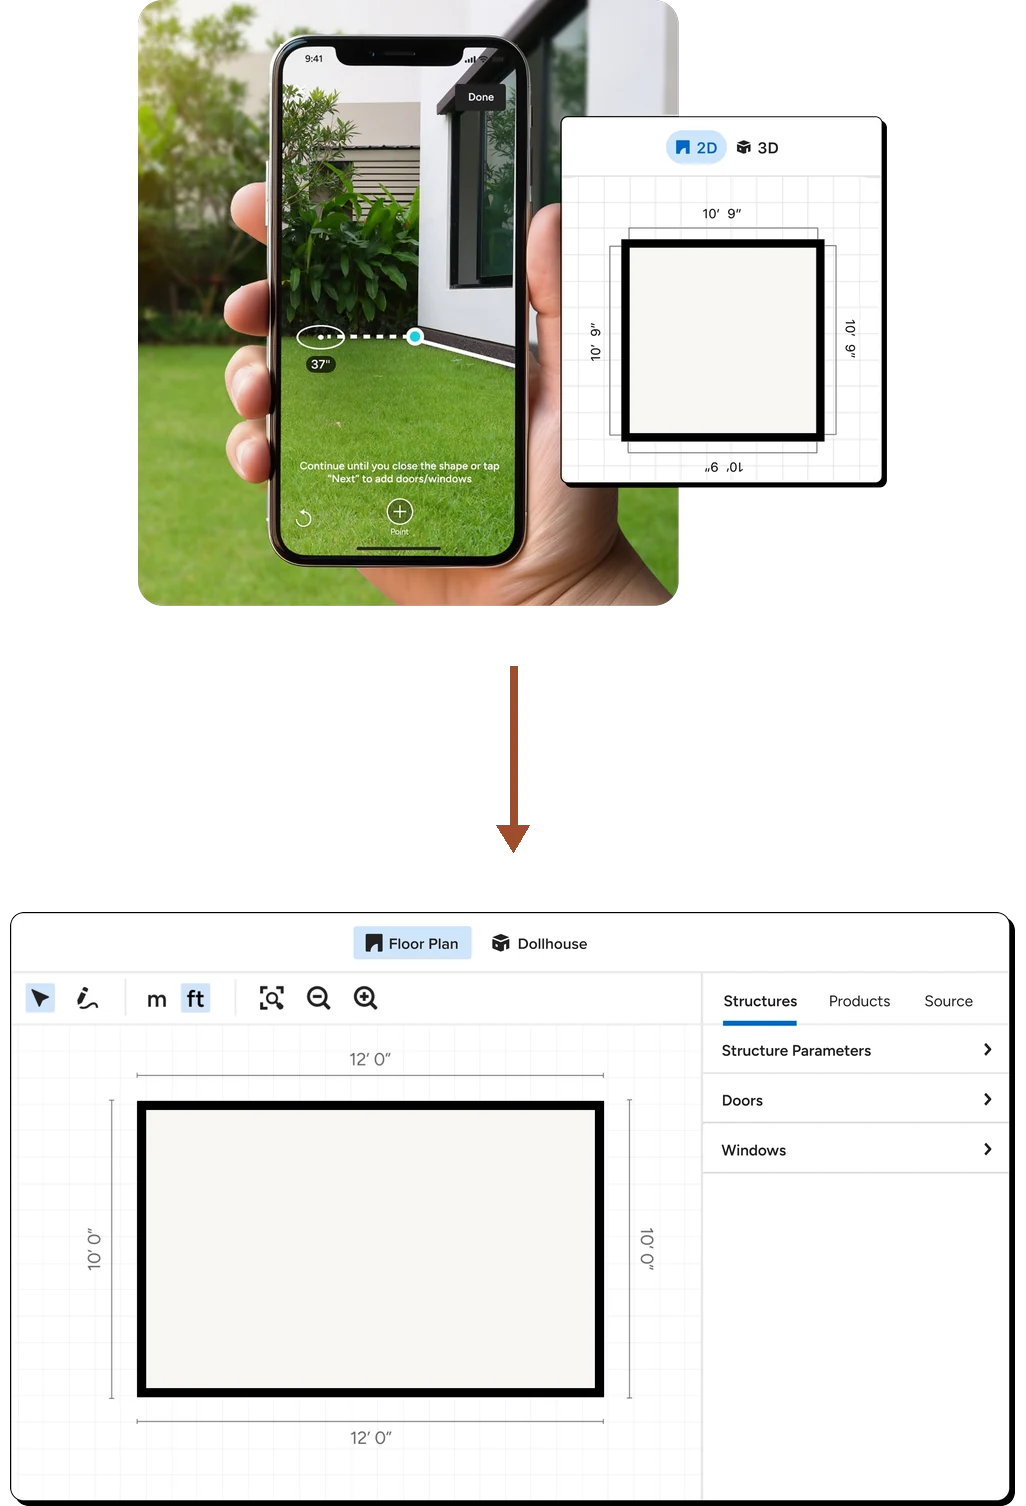
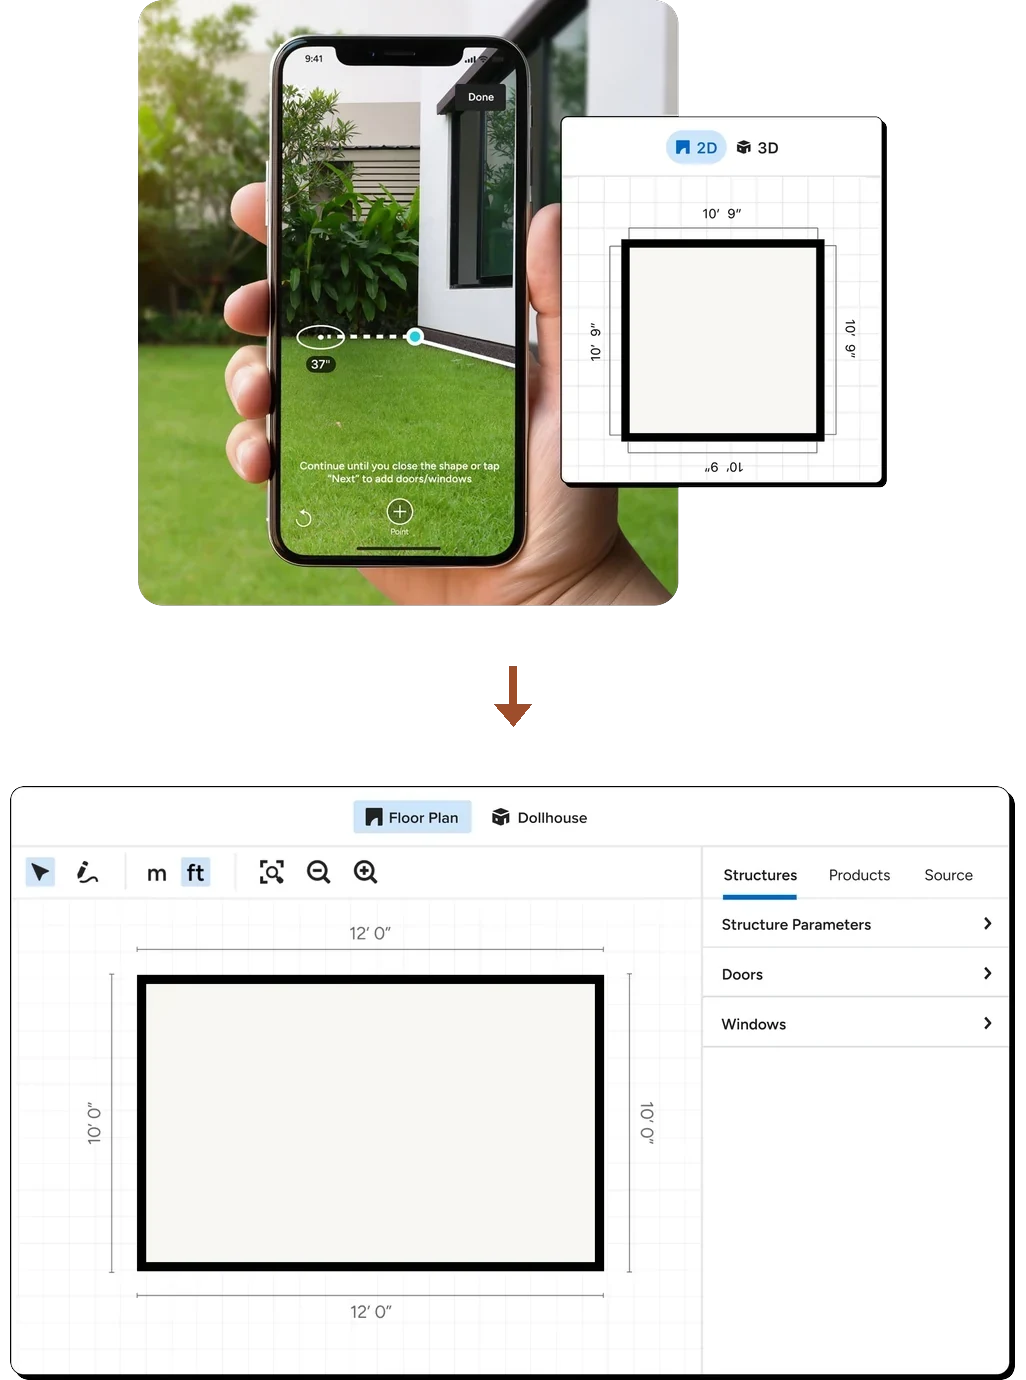
Match the Problem 03 arrow to the one under Room complete
I drew it at 50px tall, which next to the endpoint arrow was two and a
half times too big. Measured that one instead: it is the IBM Plex Mono
down arrow at 28px, whose ink is 12 x 20. Redrawn at exactly that, and
the run between the two blocks tightened from 102px to 60px so a small
arrow is not floating in a large gap.

Its shape was already right - 0.623 wide for its height, a shaft 21% of
that width and a head over the bottom 36% - taken off the glyph rendered
to a canvas with the font confirmed loaded. Only the size was wrong.

The illustration is 40px shorter as a result.

diff --git a/work/multi-room-mobile-scan.html b/work/multi-room-mobile-scan.html
@@ -746,7 +746,7 @@
     <picture>
       <!-- Phones get the same three elements stacked: the capture group, the
            accent arrow turned down, then the desktop editor. -->
-      <source media="(max-width: 700px)" srcset="../media/multi-room/hero-mobile.webp" width="1026" height="1506">
+      <source media="(max-width: 700px)" srcset="../media/multi-room/hero-mobile.webp?v=2" width="1026" height="1380">
       <img src="../media/multi-room/hero.webp" alt="A phone showing a single scanned room, with an arrow to the desktop editor holding the full plan" width="1637" height="567" loading="lazy" decoding="async">
     </picture>
   </figure>
